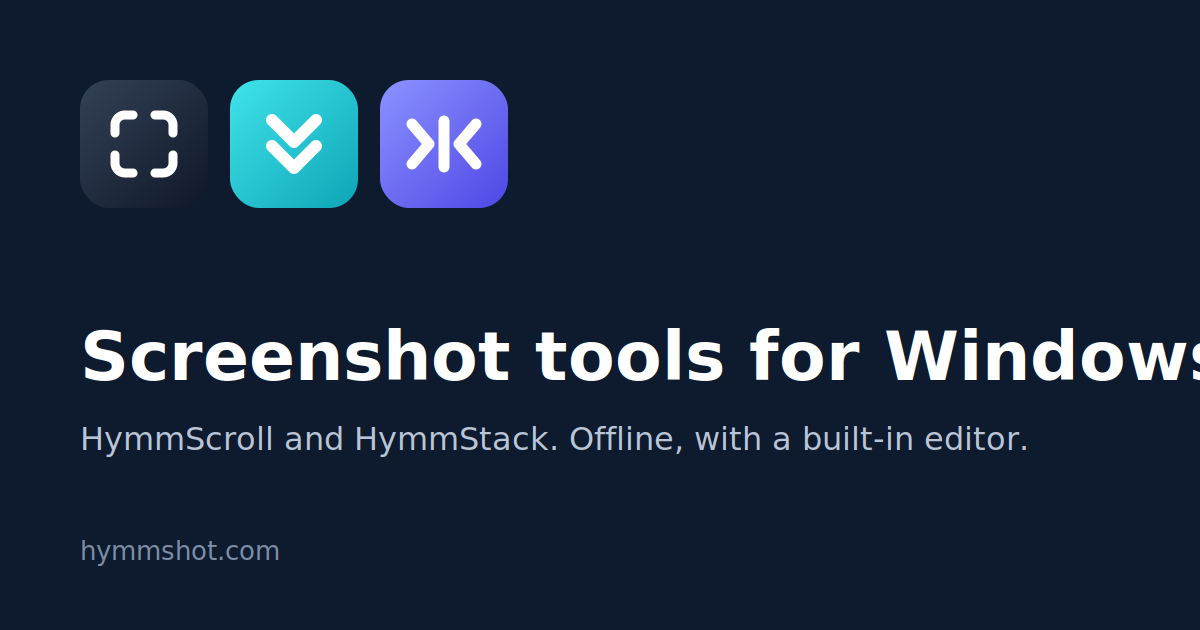
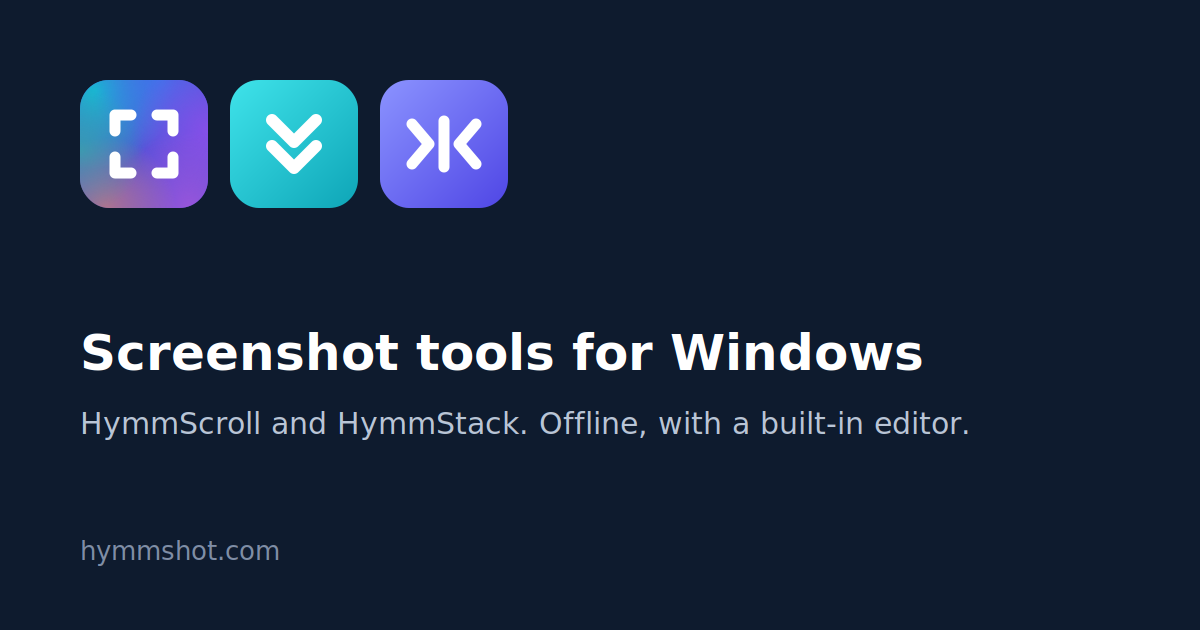
Add files via upload

Changed region(s): [[0.0617, 0.5127, 1.0, 0.6032], [0.0617, 0.6333, 0.8633, 0.7238], [0.0617, 0.1206, 0.185, 0.3317]]

diff --git a/hymmstack/index.html b/hymmstack/index.html
@@ -126,7 +126,7 @@
 <body>
 <a class="skip" href="#main">Skip to content</a>
 <header class="site-head"><div class="wrap">
-<a class="brand" href="../index.html"><svg viewBox="0 0 512 512" aria-hidden="true"><defs><linearGradient id="gsh" x1="0" y1="0" x2="1" y2="1"><stop offset="0" stop-color="#334155"/><stop offset="1" stop-color="#0F172A"/></linearGradient></defs><rect width="512" height="512" rx="115" fill="url(#gsh)"/><g fill="none" stroke="#fff" stroke-width="36" stroke-linecap="round" stroke-linejoin="round"><path d="M140 212v-32a40 40 0 0 1 40-40h32"/><path d="M300 140h32a40 40 0 0 1 40 40v32"/><path d="M372 300v32a40 40 0 0 1-40 40h-32"/><path d="M212 372h-32a40 40 0 0 1-40-40v-32"/></g></svg><span>HymmShot</span></a>
+<a class="brand" href="../index.html"><svg viewBox="0 0 512 512" aria-hidden="true"><defs><radialGradient id="hmhb0" cx="0.12" cy="0.08" r="0.62"><stop offset="0" stop-color="#14BFD0" stop-opacity="0.95"/><stop offset="0.55" stop-color="#14BFD0" stop-opacity="0.43"/><stop offset="1" stop-color="#14BFD0" stop-opacity="0"/></radialGradient><radialGradient id="hmhb1" cx="0.62" cy="0.0" r="0.55"><stop offset="0" stop-color="#3F74EE" stop-opacity="0.85"/><stop offset="0.55" stop-color="#3F74EE" stop-opacity="0.38"/><stop offset="1" stop-color="#3F74EE" stop-opacity="0"/></radialGradient><radialGradient id="hmhb2" cx="1.0" cy="0.4" r="0.6"><stop offset="0" stop-color="#8B4FEA" stop-opacity="0.9"/><stop offset="0.55" stop-color="#8B4FEA" stop-opacity="0.41"/><stop offset="1" stop-color="#8B4FEA" stop-opacity="0"/></radialGradient><radialGradient id="hmhb3" cx="0.85" cy="1.0" r="0.6"><stop offset="0" stop-color="#A956DC" stop-opacity="0.8"/><stop offset="0.55" stop-color="#A956DC" stop-opacity="0.36"/><stop offset="1" stop-color="#A956DC" stop-opacity="0"/></radialGradient><radialGradient id="hmhb4" cx="0.2" cy="1.0" r="0.55"><stop offset="0" stop-color="#EC8B5E" stop-opacity="0.6"/><stop offset="0.55" stop-color="#EC8B5E" stop-opacity="0.27"/><stop offset="1" stop-color="#EC8B5E" stop-opacity="0"/></radialGradient><radialGradient id="hmhb5" cx="0.0" cy="0.55" r="0.5"><stop offset="0" stop-color="#2FB89C" stop-opacity="0.6"/><stop offset="0.55" stop-color="#2FB89C" stop-opacity="0.27"/><stop offset="1" stop-color="#2FB89C" stop-opacity="0"/></radialGradient><clipPath id="hmhc"><rect width="512" height="512" rx="115"/></clipPath></defs><g clip-path="url(#hmhc)"><rect width="512" height="512" fill="#5351D6"/><rect width="512" height="512" fill="url(#hmhb0)"/><rect width="512" height="512" fill="url(#hmhb1)"/><rect width="512" height="512" fill="url(#hmhb2)"/><rect width="512" height="512" fill="url(#hmhb3)"/><rect width="512" height="512" fill="url(#hmhb4)"/><rect width="512" height="512" fill="url(#hmhb5)"/></g><g fill="none" stroke="#fff" stroke-width="44" stroke-linecap="round" stroke-linejoin="round"><path d="M140 204L140 140L204 140"/><path d="M308 140L372 140L372 204"/><path d="M372 308L372 372L308 372"/><path d="M204 372L140 372L140 308"/></g></svg><span>HymmShot</span></a>
 <nav class="nav" aria-label="Main"><a href="../hymmscroll/index.html">HymmScroll</a><a href="../hymmstack/index.html" aria-current="page">HymmStack</a><a href="#faq">Questions</a><a href="../docs.html">Docs</a></nav>
 </div></header>
 <main id="main">
@@ -191,7 +191,7 @@
 <section style="padding-top:0"><div class="wrap"><div class="cross"><svg viewBox="0 0 512 512" aria-hidden="true"><defs><linearGradient id="gcx" x1="0" y1="0" x2="1" y2="1"><stop offset="0" stop-color="#3FE3EA"/><stop offset="1" stop-color="#0EA5B7"/></linearGradient></defs><rect width="512" height="512" rx="115" fill="url(#gcx)"/><g fill="none" stroke="#fff" stroke-width="48" stroke-linecap="round" stroke-linejoin="round"><path d="M168 160L256 248L344 160"/><path d="M168 264L256 352L344 264"/></g></svg><div><h3>Need to capture one long page instead?</h3><p>HymmScroll captures content that scrolls past your screen as one continuous image.</p></div><a class="btn btn-scroll" data-download-cta="stack-cross" href="https://apps.microsoft.com/detail/9n6580jqmpw8" target="_blank" rel="noopener"><svg viewBox="0 0 24 24" fill="none" stroke="currentColor" stroke-width="1.8" stroke-linecap="round" stroke-linejoin="round" aria-hidden="true"><path d="M4 8h16l-1.2 11.2a2 2 0 0 1-2 1.8H7.2a2 2 0 0 1-2-1.8z"/><path d="M8.5 8V6.5a3.5 3.5 0 0 1 7 0V8"/></svg>Get HymmScroll</a></div></div></section>
 </main>
 <footer class="site-foot"><div class="wrap">
-<div><a class="brand" href="../index.html"><svg viewBox="0 0 512 512" aria-hidden="true"><defs><linearGradient id="gsf" x1="0" y1="0" x2="1" y2="1"><stop offset="0" stop-color="#334155"/><stop offset="1" stop-color="#0F172A"/></linearGradient></defs><rect width="512" height="512" rx="115" fill="url(#gsf)"/><g fill="none" stroke="#fff" stroke-width="36" stroke-linecap="round" stroke-linejoin="round"><path d="M140 212v-32a40 40 0 0 1 40-40h32"/><path d="M300 140h32a40 40 0 0 1 40 40v32"/><path d="M372 300v32a40 40 0 0 1-40 40h-32"/><path d="M212 372h-32a40 40 0 0 1-40-40v-32"/></g></svg><span>HymmShot</span></a><p>Focused screenshot tools for Windows. Built by Hadassa Goodman.</p><p><a href="mailto:contact@hymmshot.com">contact@hymmshot.com</a></p></div>
+<div><a class="brand" href="../index.html"><svg viewBox="0 0 512 512" aria-hidden="true"><defs><radialGradient id="hmfb0" cx="0.12" cy="0.08" r="0.62"><stop offset="0" stop-color="#14BFD0" stop-opacity="0.95"/><stop offset="0.55" stop-color="#14BFD0" stop-opacity="0.43"/><stop offset="1" stop-color="#14BFD0" stop-opacity="0"/></radialGradient><radialGradient id="hmfb1" cx="0.62" cy="0.0" r="0.55"><stop offset="0" stop-color="#3F74EE" stop-opacity="0.85"/><stop offset="0.55" stop-color="#3F74EE" stop-opacity="0.38"/><stop offset="1" stop-color="#3F74EE" stop-opacity="0"/></radialGradient><radialGradient id="hmfb2" cx="1.0" cy="0.4" r="0.6"><stop offset="0" stop-color="#8B4FEA" stop-opacity="0.9"/><stop offset="0.55" stop-color="#8B4FEA" stop-opacity="0.41"/><stop offset="1" stop-color="#8B4FEA" stop-opacity="0"/></radialGradient><radialGradient id="hmfb3" cx="0.85" cy="1.0" r="0.6"><stop offset="0" stop-color="#A956DC" stop-opacity="0.8"/><stop offset="0.55" stop-color="#A956DC" stop-opacity="0.36"/><stop offset="1" stop-color="#A956DC" stop-opacity="0"/></radialGradient><radialGradient id="hmfb4" cx="0.2" cy="1.0" r="0.55"><stop offset="0" stop-color="#EC8B5E" stop-opacity="0.6"/><stop offset="0.55" stop-color="#EC8B5E" stop-opacity="0.27"/><stop offset="1" stop-color="#EC8B5E" stop-opacity="0"/></radialGradient><radialGradient id="hmfb5" cx="0.0" cy="0.55" r="0.5"><stop offset="0" stop-color="#2FB89C" stop-opacity="0.6"/><stop offset="0.55" stop-color="#2FB89C" stop-opacity="0.27"/><stop offset="1" stop-color="#2FB89C" stop-opacity="0"/></radialGradient><clipPath id="hmfc"><rect width="512" height="512" rx="115"/></clipPath></defs><g clip-path="url(#hmfc)"><rect width="512" height="512" fill="#5351D6"/><rect width="512" height="512" fill="url(#hmfb0)"/><rect width="512" height="512" fill="url(#hmfb1)"/><rect width="512" height="512" fill="url(#hmfb2)"/><rect width="512" height="512" fill="url(#hmfb3)"/><rect width="512" height="512" fill="url(#hmfb4)"/><rect width="512" height="512" fill="url(#hmfb5)"/></g><g fill="none" stroke="#fff" stroke-width="44" stroke-linecap="round" stroke-linejoin="round"><path d="M140 204L140 140L204 140"/><path d="M308 140L372 140L372 204"/><path d="M372 308L372 372L308 372"/><path d="M204 372L140 372L140 308"/></g></svg><span>HymmShot</span></a><p>Focused screenshot tools for Windows. Built by Hadassa Goodman.</p><p><a href="mailto:contact@hymmshot.com">contact@hymmshot.com</a></p></div>
 <div><h2>Tools</h2><ul><li><a href="../hymmscroll/index.html">HymmScroll</a></li><li><a href="../hymmstack/index.html">HymmStack</a></li><li><a href="https://apps.microsoft.com/detail/9n6580jqmpw8" target="_blank" rel="noopener">HymmScroll on Microsoft Store</a></li></ul></div>
 <div><h2>More</h2><ul><li><a href="../docs.html">Documentation</a></li><li><a href="../security.html">Security</a></li><li><a href="../privacy.html">Privacy</a></li><li><a href="../changelog.html">Changelog</a></li><li><a href="https://www.linkedin.com/company/hymmshot" target="_blank" rel="noopener">LinkedIn</a></li></ul></div>
 </div><div class="wrap"><p class="small" style="margin-top:28px">© 2026 HymmShot</p></div></footer>

diff --git a/hymmscroll/index.html b/hymmscroll/index.html
@@ -149,7 +149,7 @@
 <body>
 <a class="skip" href="#main">Skip to content</a>
 <header class="site-head"><div class="wrap">
-<a class="brand" href="../index.html"><svg viewBox="0 0 512 512" aria-hidden="true"><defs><linearGradient id="gsh" x1="0" y1="0" x2="1" y2="1"><stop offset="0" stop-color="#334155"/><stop offset="1" stop-color="#0F172A"/></linearGradient></defs><rect width="512" height="512" rx="115" fill="url(#gsh)"/><g fill="none" stroke="#fff" stroke-width="36" stroke-linecap="round" stroke-linejoin="round"><path d="M140 212v-32a40 40 0 0 1 40-40h32"/><path d="M300 140h32a40 40 0 0 1 40 40v32"/><path d="M372 300v32a40 40 0 0 1-40 40h-32"/><path d="M212 372h-32a40 40 0 0 1-40-40v-32"/></g></svg><span>HymmShot</span></a>
+<a class="brand" href="../index.html"><svg viewBox="0 0 512 512" aria-hidden="true"><defs><radialGradient id="hmhb0" cx="0.12" cy="0.08" r="0.62"><stop offset="0" stop-color="#14BFD0" stop-opacity="0.95"/><stop offset="0.55" stop-color="#14BFD0" stop-opacity="0.43"/><stop offset="1" stop-color="#14BFD0" stop-opacity="0"/></radialGradient><radialGradient id="hmhb1" cx="0.62" cy="0.0" r="0.55"><stop offset="0" stop-color="#3F74EE" stop-opacity="0.85"/><stop offset="0.55" stop-color="#3F74EE" stop-opacity="0.38"/><stop offset="1" stop-color="#3F74EE" stop-opacity="0"/></radialGradient><radialGradient id="hmhb2" cx="1.0" cy="0.4" r="0.6"><stop offset="0" stop-color="#8B4FEA" stop-opacity="0.9"/><stop offset="0.55" stop-color="#8B4FEA" stop-opacity="0.41"/><stop offset="1" stop-color="#8B4FEA" stop-opacity="0"/></radialGradient><radialGradient id="hmhb3" cx="0.85" cy="1.0" r="0.6"><stop offset="0" stop-color="#A956DC" stop-opacity="0.8"/><stop offset="0.55" stop-color="#A956DC" stop-opacity="0.36"/><stop offset="1" stop-color="#A956DC" stop-opacity="0"/></radialGradient><radialGradient id="hmhb4" cx="0.2" cy="1.0" r="0.55"><stop offset="0" stop-color="#EC8B5E" stop-opacity="0.6"/><stop offset="0.55" stop-color="#EC8B5E" stop-opacity="0.27"/><stop offset="1" stop-color="#EC8B5E" stop-opacity="0"/></radialGradient><radialGradient id="hmhb5" cx="0.0" cy="0.55" r="0.5"><stop offset="0" stop-color="#2FB89C" stop-opacity="0.6"/><stop offset="0.55" stop-color="#2FB89C" stop-opacity="0.27"/><stop offset="1" stop-color="#2FB89C" stop-opacity="0"/></radialGradient><clipPath id="hmhc"><rect width="512" height="512" rx="115"/></clipPath></defs><g clip-path="url(#hmhc)"><rect width="512" height="512" fill="#5351D6"/><rect width="512" height="512" fill="url(#hmhb0)"/><rect width="512" height="512" fill="url(#hmhb1)"/><rect width="512" height="512" fill="url(#hmhb2)"/><rect width="512" height="512" fill="url(#hmhb3)"/><rect width="512" height="512" fill="url(#hmhb4)"/><rect width="512" height="512" fill="url(#hmhb5)"/></g><g fill="none" stroke="#fff" stroke-width="44" stroke-linecap="round" stroke-linejoin="round"><path d="M140 204L140 140L204 140"/><path d="M308 140L372 140L372 204"/><path d="M372 308L372 372L308 372"/><path d="M204 372L140 372L140 308"/></g></svg><span>HymmShot</span></a>
 <nav class="nav" aria-label="Main"><a href="../hymmscroll/index.html" aria-current="page">HymmScroll</a><a href="../hymmstack/index.html">HymmStack</a><a href="#faq">Questions</a><a href="../docs.html">Docs</a></nav>
 </div></header>
 <main id="main">
@@ -211,7 +211,7 @@
 <section style="padding-top:0"><div class="wrap"><div class="cross"><svg viewBox="0 0 512 512" aria-hidden="true"><defs><linearGradient id="gkx" x1="0" y1="0" x2="1" y2="1"><stop offset="0" stop-color="#8B93FF"/><stop offset="1" stop-color="#4F46E5"/></linearGradient></defs><rect width="512" height="512" rx="115" fill="url(#gkx)"/><g fill="none" stroke="#fff" stroke-width="44" stroke-linecap="round" stroke-linejoin="round"><path d="M128 176L196 256L128 336"/><path d="M384 176L316 256L384 336"/><path d="M256 164V348"/></g></svg><div><h3>Need to join several captures instead?</h3><p>HymmStack combines captures from different windows or steps into one image.</p></div><a class="btn btn-ghost" href="../hymmstack/index.html">About HymmStack</a></div></div></section>
 </main>
 <footer class="site-foot"><div class="wrap">
-<div><a class="brand" href="../index.html"><svg viewBox="0 0 512 512" aria-hidden="true"><defs><linearGradient id="gsf" x1="0" y1="0" x2="1" y2="1"><stop offset="0" stop-color="#334155"/><stop offset="1" stop-color="#0F172A"/></linearGradient></defs><rect width="512" height="512" rx="115" fill="url(#gsf)"/><g fill="none" stroke="#fff" stroke-width="36" stroke-linecap="round" stroke-linejoin="round"><path d="M140 212v-32a40 40 0 0 1 40-40h32"/><path d="M300 140h32a40 40 0 0 1 40 40v32"/><path d="M372 300v32a40 40 0 0 1-40 40h-32"/><path d="M212 372h-32a40 40 0 0 1-40-40v-32"/></g></svg><span>HymmShot</span></a><p>Focused screenshot tools for Windows. Built by Hadassa Goodman.</p><p><a href="mailto:contact@hymmshot.com">contact@hymmshot.com</a></p></div>
+<div><a class="brand" href="../index.html"><svg viewBox="0 0 512 512" aria-hidden="true"><defs><radialGradient id="hmfb0" cx="0.12" cy="0.08" r="0.62"><stop offset="0" stop-color="#14BFD0" stop-opacity="0.95"/><stop offset="0.55" stop-color="#14BFD0" stop-opacity="0.43"/><stop offset="1" stop-color="#14BFD0" stop-opacity="0"/></radialGradient><radialGradient id="hmfb1" cx="0.62" cy="0.0" r="0.55"><stop offset="0" stop-color="#3F74EE" stop-opacity="0.85"/><stop offset="0.55" stop-color="#3F74EE" stop-opacity="0.38"/><stop offset="1" stop-color="#3F74EE" stop-opacity="0"/></radialGradient><radialGradient id="hmfb2" cx="1.0" cy="0.4" r="0.6"><stop offset="0" stop-color="#8B4FEA" stop-opacity="0.9"/><stop offset="0.55" stop-color="#8B4FEA" stop-opacity="0.41"/><stop offset="1" stop-color="#8B4FEA" stop-opacity="0"/></radialGradient><radialGradient id="hmfb3" cx="0.85" cy="1.0" r="0.6"><stop offset="0" stop-color="#A956DC" stop-opacity="0.8"/><stop offset="0.55" stop-color="#A956DC" stop-opacity="0.36"/><stop offset="1" stop-color="#A956DC" stop-opacity="0"/></radialGradient><radialGradient id="hmfb4" cx="0.2" cy="1.0" r="0.55"><stop offset="0" stop-color="#EC8B5E" stop-opacity="0.6"/><stop offset="0.55" stop-color="#EC8B5E" stop-opacity="0.27"/><stop offset="1" stop-color="#EC8B5E" stop-opacity="0"/></radialGradient><radialGradient id="hmfb5" cx="0.0" cy="0.55" r="0.5"><stop offset="0" stop-color="#2FB89C" stop-opacity="0.6"/><stop offset="0.55" stop-color="#2FB89C" stop-opacity="0.27"/><stop offset="1" stop-color="#2FB89C" stop-opacity="0"/></radialGradient><clipPath id="hmfc"><rect width="512" height="512" rx="115"/></clipPath></defs><g clip-path="url(#hmfc)"><rect width="512" height="512" fill="#5351D6"/><rect width="512" height="512" fill="url(#hmfb0)"/><rect width="512" height="512" fill="url(#hmfb1)"/><rect width="512" height="512" fill="url(#hmfb2)"/><rect width="512" height="512" fill="url(#hmfb3)"/><rect width="512" height="512" fill="url(#hmfb4)"/><rect width="512" height="512" fill="url(#hmfb5)"/></g><g fill="none" stroke="#fff" stroke-width="44" stroke-linecap="round" stroke-linejoin="round"><path d="M140 204L140 140L204 140"/><path d="M308 140L372 140L372 204"/><path d="M372 308L372 372L308 372"/><path d="M204 372L140 372L140 308"/></g></svg><span>HymmShot</span></a><p>Focused screenshot tools for Windows. Built by Hadassa Goodman.</p><p><a href="mailto:contact@hymmshot.com">contact@hymmshot.com</a></p></div>
 <div><h2>Tools</h2><ul><li><a href="../hymmscroll/index.html">HymmScroll</a></li><li><a href="../hymmstack/index.html">HymmStack</a></li><li><a href="https://apps.microsoft.com/detail/9n6580jqmpw8" target="_blank" rel="noopener">HymmScroll on Microsoft Store</a></li></ul></div>
 <div><h2>More</h2><ul><li><a href="../docs.html">Documentation</a></li><li><a href="../security.html">Security</a></li><li><a href="../privacy.html">Privacy</a></li><li><a href="../changelog.html">Changelog</a></li><li><a href="https://www.linkedin.com/company/hymmshot" target="_blank" rel="noopener">LinkedIn</a></li></ul></div>
 </div><div class="wrap"><p class="small" style="margin-top:28px">© 2026 HymmShot</p></div></footer>

diff --git a/404.html b/404.html
@@ -32,13 +32,13 @@
 <body>
 <a class="skip" href="#main">Skip to content</a>
 <header class="site-head"><div class="wrap">
-<a class="brand" href="index.html"><svg viewBox="0 0 512 512" aria-hidden="true"><defs><linearGradient id="gsh" x1="0" y1="0" x2="1" y2="1"><stop offset="0" stop-color="#334155"/><stop offset="1" stop-color="#0F172A"/></linearGradient></defs><rect width="512" height="512" rx="115" fill="url(#gsh)"/><g fill="none" stroke="#fff" stroke-width="36" stroke-linecap="round" stroke-linejoin="round"><path d="M140 212v-32a40 40 0 0 1 40-40h32"/><path d="M300 140h32a40 40 0 0 1 40 40v32"/><path d="M372 300v32a40 40 0 0 1-40 40h-32"/><path d="M212 372h-32a40 40 0 0 1-40-40v-32"/></g></svg><span>HymmShot</span></a>
+<a class="brand" href="index.html"><svg viewBox="0 0 512 512" aria-hidden="true"><defs><radialGradient id="hmhb0" cx="0.12" cy="0.08" r="0.62"><stop offset="0" stop-color="#14BFD0" stop-opacity="0.95"/><stop offset="0.55" stop-color="#14BFD0" stop-opacity="0.43"/><stop offset="1" stop-color="#14BFD0" stop-opacity="0"/></radialGradient><radialGradient id="hmhb1" cx="0.62" cy="0.0" r="0.55"><stop offset="0" stop-color="#3F74EE" stop-opacity="0.85"/><stop offset="0.55" stop-color="#3F74EE" stop-opacity="0.38"/><stop offset="1" stop-color="#3F74EE" stop-opacity="0"/></radialGradient><radialGradient id="hmhb2" cx="1.0" cy="0.4" r="0.6"><stop offset="0" stop-color="#8B4FEA" stop-opacity="0.9"/><stop offset="0.55" stop-color="#8B4FEA" stop-opacity="0.41"/><stop offset="1" stop-color="#8B4FEA" stop-opacity="0"/></radialGradient><radialGradient id="hmhb3" cx="0.85" cy="1.0" r="0.6"><stop offset="0" stop-color="#A956DC" stop-opacity="0.8"/><stop offset="0.55" stop-color="#A956DC" stop-opacity="0.36"/><stop offset="1" stop-color="#A956DC" stop-opacity="0"/></radialGradient><radialGradient id="hmhb4" cx="0.2" cy="1.0" r="0.55"><stop offset="0" stop-color="#EC8B5E" stop-opacity="0.6"/><stop offset="0.55" stop-color="#EC8B5E" stop-opacity="0.27"/><stop offset="1" stop-color="#EC8B5E" stop-opacity="0"/></radialGradient><radialGradient id="hmhb5" cx="0.0" cy="0.55" r="0.5"><stop offset="0" stop-color="#2FB89C" stop-opacity="0.6"/><stop offset="0.55" stop-color="#2FB89C" stop-opacity="0.27"/><stop offset="1" stop-color="#2FB89C" stop-opacity="0"/></radialGradient><clipPath id="hmhc"><rect width="512" height="512" rx="115"/></clipPath></defs><g clip-path="url(#hmhc)"><rect width="512" height="512" fill="#5351D6"/><rect width="512" height="512" fill="url(#hmhb0)"/><rect width="512" height="512" fill="url(#hmhb1)"/><rect width="512" height="512" fill="url(#hmhb2)"/><rect width="512" height="512" fill="url(#hmhb3)"/><rect width="512" height="512" fill="url(#hmhb4)"/><rect width="512" height="512" fill="url(#hmhb5)"/></g><g fill="none" stroke="#fff" stroke-width="44" stroke-linecap="round" stroke-linejoin="round"><path d="M140 204L140 140L204 140"/><path d="M308 140L372 140L372 204"/><path d="M372 308L372 372L308 372"/><path d="M204 372L140 372L140 308"/></g></svg><span>HymmShot</span></a>
 <nav class="nav" aria-label="Main"><a href="hymmscroll/index.html">HymmScroll</a><a href="hymmstack/index.html">HymmStack</a><a href="#faq">Questions</a><a href="docs.html">Docs</a></nav>
 </div></header>
 <main id="main">
 <section class="hero"><div class="wrap"><h1>This page doesn't exist.</h1><p class="lede">The address may be wrong, or the page may have moved.</p><div class="actions"><a class="btn btn-ink" href="index.html">Go to the HymmShot home page</a><a class="btn btn-ghost" href="hymmscroll/index.html">HymmScroll</a><a class="btn btn-ghost" href="hymmstack/index.html">HymmStack</a></div></div></section></main>
 <footer class="site-foot"><div class="wrap">
-<div><a class="brand" href="index.html"><svg viewBox="0 0 512 512" aria-hidden="true"><defs><linearGradient id="gsf" x1="0" y1="0" x2="1" y2="1"><stop offset="0" stop-color="#334155"/><stop offset="1" stop-color="#0F172A"/></linearGradient></defs><rect width="512" height="512" rx="115" fill="url(#gsf)"/><g fill="none" stroke="#fff" stroke-width="36" stroke-linecap="round" stroke-linejoin="round"><path d="M140 212v-32a40 40 0 0 1 40-40h32"/><path d="M300 140h32a40 40 0 0 1 40 40v32"/><path d="M372 300v32a40 40 0 0 1-40 40h-32"/><path d="M212 372h-32a40 40 0 0 1-40-40v-32"/></g></svg><span>HymmShot</span></a><p>Focused screenshot tools for Windows. Built by Hadassa Goodman.</p><p><a href="mailto:contact@hymmshot.com">contact@hymmshot.com</a></p></div>
+<div><a class="brand" href="index.html"><svg viewBox="0 0 512 512" aria-hidden="true"><defs><radialGradient id="hmfb0" cx="0.12" cy="0.08" r="0.62"><stop offset="0" stop-color="#14BFD0" stop-opacity="0.95"/><stop offset="0.55" stop-color="#14BFD0" stop-opacity="0.43"/><stop offset="1" stop-color="#14BFD0" stop-opacity="0"/></radialGradient><radialGradient id="hmfb1" cx="0.62" cy="0.0" r="0.55"><stop offset="0" stop-color="#3F74EE" stop-opacity="0.85"/><stop offset="0.55" stop-color="#3F74EE" stop-opacity="0.38"/><stop offset="1" stop-color="#3F74EE" stop-opacity="0"/></radialGradient><radialGradient id="hmfb2" cx="1.0" cy="0.4" r="0.6"><stop offset="0" stop-color="#8B4FEA" stop-opacity="0.9"/><stop offset="0.55" stop-color="#8B4FEA" stop-opacity="0.41"/><stop offset="1" stop-color="#8B4FEA" stop-opacity="0"/></radialGradient><radialGradient id="hmfb3" cx="0.85" cy="1.0" r="0.6"><stop offset="0" stop-color="#A956DC" stop-opacity="0.8"/><stop offset="0.55" stop-color="#A956DC" stop-opacity="0.36"/><stop offset="1" stop-color="#A956DC" stop-opacity="0"/></radialGradient><radialGradient id="hmfb4" cx="0.2" cy="1.0" r="0.55"><stop offset="0" stop-color="#EC8B5E" stop-opacity="0.6"/><stop offset="0.55" stop-color="#EC8B5E" stop-opacity="0.27"/><stop offset="1" stop-color="#EC8B5E" stop-opacity="0"/></radialGradient><radialGradient id="hmfb5" cx="0.0" cy="0.55" r="0.5"><stop offset="0" stop-color="#2FB89C" stop-opacity="0.6"/><stop offset="0.55" stop-color="#2FB89C" stop-opacity="0.27"/><stop offset="1" stop-color="#2FB89C" stop-opacity="0"/></radialGradient><clipPath id="hmfc"><rect width="512" height="512" rx="115"/></clipPath></defs><g clip-path="url(#hmfc)"><rect width="512" height="512" fill="#5351D6"/><rect width="512" height="512" fill="url(#hmfb0)"/><rect width="512" height="512" fill="url(#hmfb1)"/><rect width="512" height="512" fill="url(#hmfb2)"/><rect width="512" height="512" fill="url(#hmfb3)"/><rect width="512" height="512" fill="url(#hmfb4)"/><rect width="512" height="512" fill="url(#hmfb5)"/></g><g fill="none" stroke="#fff" stroke-width="44" stroke-linecap="round" stroke-linejoin="round"><path d="M140 204L140 140L204 140"/><path d="M308 140L372 140L372 204"/><path d="M372 308L372 372L308 372"/><path d="M204 372L140 372L140 308"/></g></svg><span>HymmShot</span></a><p>Focused screenshot tools for Windows. Built by Hadassa Goodman.</p><p><a href="mailto:contact@hymmshot.com">contact@hymmshot.com</a></p></div>
 <div><h2>Tools</h2><ul><li><a href="hymmscroll/index.html">HymmScroll</a></li><li><a href="hymmstack/index.html">HymmStack</a></li><li><a href="https://apps.microsoft.com/detail/9n6580jqmpw8" target="_blank" rel="noopener">HymmScroll on Microsoft Store</a></li></ul></div>
 <div><h2>More</h2><ul><li><a href="docs.html">Documentation</a></li><li><a href="security.html">Security</a></li><li><a href="privacy.html">Privacy</a></li><li><a href="changelog.html">Changelog</a></li><li><a href="https://www.linkedin.com/company/hymmshot" target="_blank" rel="noopener">LinkedIn</a></li></ul></div>
 </div><div class="wrap"><p class="small" style="margin-top:28px">© 2026 HymmShot</p></div></footer>

diff --git a/index.html b/index.html
@@ -115,7 +115,7 @@
 <body>
 <a class="skip" href="#main">Skip to content</a>
 <header class="site-head"><div class="wrap">
-<a class="brand" href="index.html"><svg viewBox="0 0 512 512" aria-hidden="true"><defs><linearGradient id="gsh" x1="0" y1="0" x2="1" y2="1"><stop offset="0" stop-color="#334155"/><stop offset="1" stop-color="#0F172A"/></linearGradient></defs><rect width="512" height="512" rx="115" fill="url(#gsh)"/><g fill="none" stroke="#fff" stroke-width="36" stroke-linecap="round" stroke-linejoin="round"><path d="M140 212v-32a40 40 0 0 1 40-40h32"/><path d="M300 140h32a40 40 0 0 1 40 40v32"/><path d="M372 300v32a40 40 0 0 1-40 40h-32"/><path d="M212 372h-32a40 40 0 0 1-40-40v-32"/></g></svg><span>HymmShot</span></a>
+<a class="brand" href="index.html"><svg viewBox="0 0 512 512" aria-hidden="true"><defs><radialGradient id="hmhb0" cx="0.12" cy="0.08" r="0.62"><stop offset="0" stop-color="#14BFD0" stop-opacity="0.95"/><stop offset="0.55" stop-color="#14BFD0" stop-opacity="0.43"/><stop offset="1" stop-color="#14BFD0" stop-opacity="0"/></radialGradient><radialGradient id="hmhb1" cx="0.62" cy="0.0" r="0.55"><stop offset="0" stop-color="#3F74EE" stop-opacity="0.85"/><stop offset="0.55" stop-color="#3F74EE" stop-opacity="0.38"/><stop offset="1" stop-color="#3F74EE" stop-opacity="0"/></radialGradient><radialGradient id="hmhb2" cx="1.0" cy="0.4" r="0.6"><stop offset="0" stop-color="#8B4FEA" stop-opacity="0.9"/><stop offset="0.55" stop-color="#8B4FEA" stop-opacity="0.41"/><stop offset="1" stop-color="#8B4FEA" stop-opacity="0"/></radialGradient><radialGradient id="hmhb3" cx="0.85" cy="1.0" r="0.6"><stop offset="0" stop-color="#A956DC" stop-opacity="0.8"/><stop offset="0.55" stop-color="#A956DC" stop-opacity="0.36"/><stop offset="1" stop-color="#A956DC" stop-opacity="0"/></radialGradient><radialGradient id="hmhb4" cx="0.2" cy="1.0" r="0.55"><stop offset="0" stop-color="#EC8B5E" stop-opacity="0.6"/><stop offset="0.55" stop-color="#EC8B5E" stop-opacity="0.27"/><stop offset="1" stop-color="#EC8B5E" stop-opacity="0"/></radialGradient><radialGradient id="hmhb5" cx="0.0" cy="0.55" r="0.5"><stop offset="0" stop-color="#2FB89C" stop-opacity="0.6"/><stop offset="0.55" stop-color="#2FB89C" stop-opacity="0.27"/><stop offset="1" stop-color="#2FB89C" stop-opacity="0"/></radialGradient><clipPath id="hmhc"><rect width="512" height="512" rx="115"/></clipPath></defs><g clip-path="url(#hmhc)"><rect width="512" height="512" fill="#5351D6"/><rect width="512" height="512" fill="url(#hmhb0)"/><rect width="512" height="512" fill="url(#hmhb1)"/><rect width="512" height="512" fill="url(#hmhb2)"/><rect width="512" height="512" fill="url(#hmhb3)"/><rect width="512" height="512" fill="url(#hmhb4)"/><rect width="512" height="512" fill="url(#hmhb5)"/></g><g fill="none" stroke="#fff" stroke-width="44" stroke-linecap="round" stroke-linejoin="round"><path d="M140 204L140 140L204 140"/><path d="M308 140L372 140L372 204"/><path d="M372 308L372 372L308 372"/><path d="M204 372L140 372L140 308"/></g></svg><span>HymmShot</span></a>
 <nav class="nav" aria-label="Main"><a href="hymmscroll/index.html">HymmScroll</a><a href="hymmstack/index.html">HymmStack</a><a href="#faq">Questions</a><a href="docs.html">Docs</a></nav>
 </div></header>
 <main id="main">
@@ -177,7 +177,7 @@
 <section class="contact" style="padding-top:0"><div class="wrap"><div><h2>Have a question that isn't here?</h2><p class="muted" style="margin:.4em 0 0">You'll get an answer from the person who builds the tools.</p></div><a class="btn btn-ink" href="mailto:contact@hymmshot.com">Email contact@hymmshot.com</a></div></section>
 </main>
 <footer class="site-foot"><div class="wrap">
-<div><a class="brand" href="index.html"><svg viewBox="0 0 512 512" aria-hidden="true"><defs><linearGradient id="gsf" x1="0" y1="0" x2="1" y2="1"><stop offset="0" stop-color="#334155"/><stop offset="1" stop-color="#0F172A"/></linearGradient></defs><rect width="512" height="512" rx="115" fill="url(#gsf)"/><g fill="none" stroke="#fff" stroke-width="36" stroke-linecap="round" stroke-linejoin="round"><path d="M140 212v-32a40 40 0 0 1 40-40h32"/><path d="M300 140h32a40 40 0 0 1 40 40v32"/><path d="M372 300v32a40 40 0 0 1-40 40h-32"/><path d="M212 372h-32a40 40 0 0 1-40-40v-32"/></g></svg><span>HymmShot</span></a><p>Focused screenshot tools for Windows. Built by Hadassa Goodman.</p><p><a href="mailto:contact@hymmshot.com">contact@hymmshot.com</a></p></div>
+<div><a class="brand" href="index.html"><svg viewBox="0 0 512 512" aria-hidden="true"><defs><radialGradient id="hmfb0" cx="0.12" cy="0.08" r="0.62"><stop offset="0" stop-color="#14BFD0" stop-opacity="0.95"/><stop offset="0.55" stop-color="#14BFD0" stop-opacity="0.43"/><stop offset="1" stop-color="#14BFD0" stop-opacity="0"/></radialGradient><radialGradient id="hmfb1" cx="0.62" cy="0.0" r="0.55"><stop offset="0" stop-color="#3F74EE" stop-opacity="0.85"/><stop offset="0.55" stop-color="#3F74EE" stop-opacity="0.38"/><stop offset="1" stop-color="#3F74EE" stop-opacity="0"/></radialGradient><radialGradient id="hmfb2" cx="1.0" cy="0.4" r="0.6"><stop offset="0" stop-color="#8B4FEA" stop-opacity="0.9"/><stop offset="0.55" stop-color="#8B4FEA" stop-opacity="0.41"/><stop offset="1" stop-color="#8B4FEA" stop-opacity="0"/></radialGradient><radialGradient id="hmfb3" cx="0.85" cy="1.0" r="0.6"><stop offset="0" stop-color="#A956DC" stop-opacity="0.8"/><stop offset="0.55" stop-color="#A956DC" stop-opacity="0.36"/><stop offset="1" stop-color="#A956DC" stop-opacity="0"/></radialGradient><radialGradient id="hmfb4" cx="0.2" cy="1.0" r="0.55"><stop offset="0" stop-color="#EC8B5E" stop-opacity="0.6"/><stop offset="0.55" stop-color="#EC8B5E" stop-opacity="0.27"/><stop offset="1" stop-color="#EC8B5E" stop-opacity="0"/></radialGradient><radialGradient id="hmfb5" cx="0.0" cy="0.55" r="0.5"><stop offset="0" stop-color="#2FB89C" stop-opacity="0.6"/><stop offset="0.55" stop-color="#2FB89C" stop-opacity="0.27"/><stop offset="1" stop-color="#2FB89C" stop-opacity="0"/></radialGradient><clipPath id="hmfc"><rect width="512" height="512" rx="115"/></clipPath></defs><g clip-path="url(#hmfc)"><rect width="512" height="512" fill="#5351D6"/><rect width="512" height="512" fill="url(#hmfb0)"/><rect width="512" height="512" fill="url(#hmfb1)"/><rect width="512" height="512" fill="url(#hmfb2)"/><rect width="512" height="512" fill="url(#hmfb3)"/><rect width="512" height="512" fill="url(#hmfb4)"/><rect width="512" height="512" fill="url(#hmfb5)"/></g><g fill="none" stroke="#fff" stroke-width="44" stroke-linecap="round" stroke-linejoin="round"><path d="M140 204L140 140L204 140"/><path d="M308 140L372 140L372 204"/><path d="M372 308L372 372L308 372"/><path d="M204 372L140 372L140 308"/></g></svg><span>HymmShot</span></a><p>Focused screenshot tools for Windows. Built by Hadassa Goodman.</p><p><a href="mailto:contact@hymmshot.com">contact@hymmshot.com</a></p></div>
 <div><h2>Tools</h2><ul><li><a href="hymmscroll/index.html">HymmScroll</a></li><li><a href="hymmstack/index.html">HymmStack</a></li><li><a href="https://apps.microsoft.com/detail/9n6580jqmpw8" target="_blank" rel="noopener">HymmScroll on Microsoft Store</a></li></ul></div>
 <div><h2>More</h2><ul><li><a href="docs.html">Documentation</a></li><li><a href="security.html">Security</a></li><li><a href="privacy.html">Privacy</a></li><li><a href="changelog.html">Changelog</a></li><li><a href="https://www.linkedin.com/company/hymmshot" target="_blank" rel="noopener">LinkedIn</a></li></ul></div>
 </div><div class="wrap"><p class="small" style="margin-top:28px">© 2026 HymmShot</p></div></footer>
